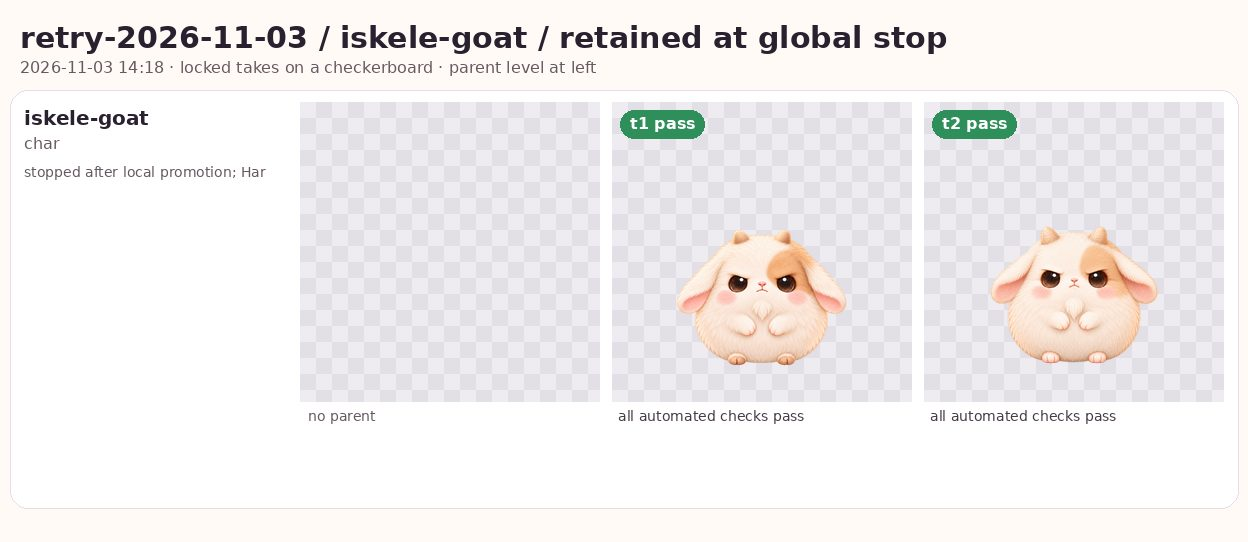
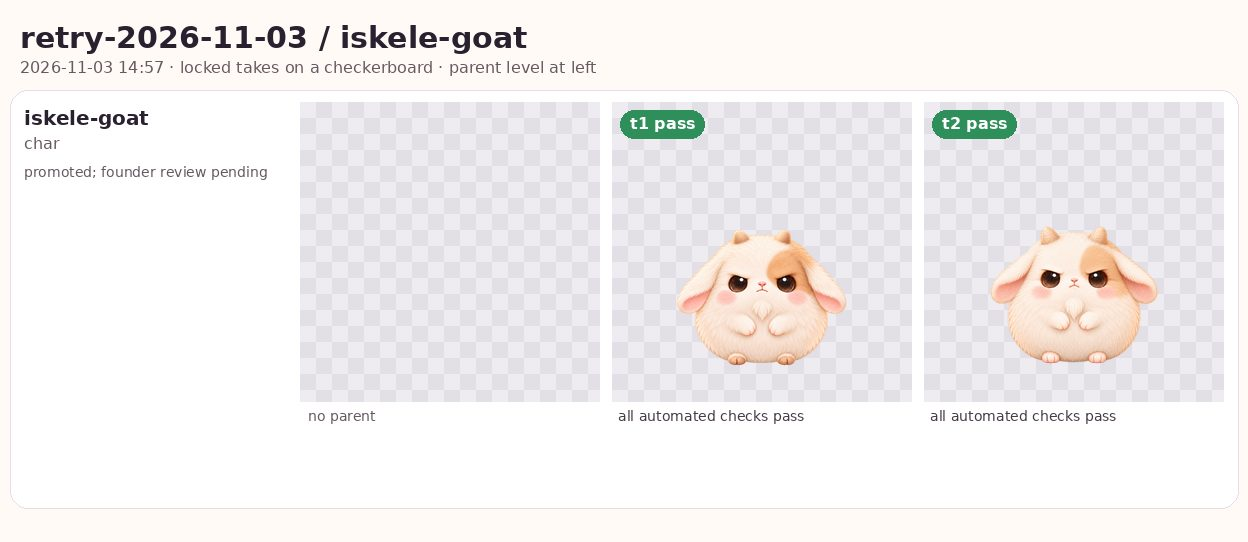
design(art): publish iskele-goat
Generated-With: OpenAI Codex

Changed region(s): [[0.4375, 0.0295, 0.7812, 0.1181], [0.0, 0.2952, 0.2188, 0.3247]]

diff --git a/design/art/masters/iskele-goat/provenance.md b/design/art/masters/iskele-goat/provenance.md
@@ -1,0 +1,69 @@
+# char__iskele-goat
+
+- **Approved:** 2026-11-03T14:57:40+00:00 from batch `retry-2026-11-03`, job `iskele-goat`, take t1
+  of 2 considered.
+- **Generating account:** Founder's uncle's ChatGPT plan, used by the founder with permission
+  (chatgpt-plan).
+- **Tool:** codex-cloud;
+  generated 2026-11-03T13:49:40+00:00.
+- **Post-processing (human-authored, documented per art bible section 13):**
+  canvas fit, style lock preset `char-guard` (style_lock.json v2).
+- **Files:** `raw.webp` is the take as generated (webp q95), kept so the look can be re-locked; `iskele-goat.png` is the locked master the app and later edits use.
+- **Review note:** auto-picked by QA; founder review pending. Retained pair re-posted under main9ede62e; no new image generation. Both takes depict a cream plush baby goat with a warm tan eye patch, tiny rounded horn buds, floppy ears, beard tuft and indignant expression. No head curl, sharp horns or rectangular pupils. Both pass every current automated check. The existing saved t1 remains the QA pick by Harmony97.6 versus95.6; characters have no lock-load check. The previous partial master remains untouched in its old worktree; this master is rebuilt from the retained original and current pipeline.
+
+## References
+
+- `design/art/masters/pofu-hamster-base-v1/pofu-hamster-base.png`: The hamster, Pofu: match his art style, lighting, level of fluff and scale exactly (do not draw him).
+- `design/art/masters/mochi-v2/mochi-v2.png`: Mochi, a neighbor: match her size on the canvas, her eyes and her finish (do not draw her).
+- `design/reference/palette-card-character.png`: The character palette card.
+
+## Prompt (fingerprint ff2a45afcaf6ec93)
+
+```text
+REFERENCES (attached, in this order):
+1. The hamster, Pofu: match his art style, lighting, level of fluff and scale exactly (do not draw him).
+2. Mochi, a neighbor: match her size on the canvas, her eyes and her finish (do not draw her).
+3. The character palette card.
+
+Draw a baby goat in exactly the same art style, lighting and level
+of fluff as the attached hamster and bunny. Same canvas rules:
+full body, sitting upright, front view, centered, feet on an
+invisible line at 88% of the height, about 62% of the canvas width.
+CHARACTER: a baby goat whose body is a soft round ball of cream
+plush fur, a warm tan patch over one eye, two tiny rounded horn
+buds, two soft floppy ears, a small beard tuft, big round glossy
+dark espresso eyes with a catchlight each, and a very indignant
+expression: the brows low, the small mouth pressed in a flat, soft
+line, the chin lifted. Two small cream front paws at the chest.
+No curl on top of the head.
+
+STYLE: soft painterly 2D digital illustration with the polish of a premium
+storybook and a top-tier mobile app mascot. Gentle airbrushed shading, no
+outlines, no hard edges. Fine, soft fur strands along the silhouette and a
+velvety fur texture inside it. Warm diffused key light from the upper left,
+a faint warm rim light along the right edge, soft ambient shadow only where
+forms touch. Pastel warm palette of cream, golden peach and blush pink with
+dark espresso-brown eyes. Clean, calm, uncluttered. No text, no letters,
+no numbers, no logos, no watermark, no border, no frame, no sticker outline.
+
+AVOID: outlines, cel shading, 3D plastic or vinyl render, anime sparkle
+eyes with many highlights, extra limbs, extra toes or fingers, claws,
+teeth, eyebrows, a long tail, lilac or gray fur, a ground shadow, a floor,
+a cast shadow, a white sticker border, text, watermarks, signatures,
+motion blur, film grain, paper texture, vignette.
+
+AVOID: realistic goat anatomy, sharp horns, rectangular pupils, a hat, text, a ground shadow.
+
+Output: one image, transparent background PNG, portrait 1024 x 1536.
+```
+
+## QA at approval
+
+- pass: transparency (source has an alpha channel)
+- pass: canvas (1024x1536)
+- pass: chroma_ceiling (chroma p95 41 (R1 51))
+- pass: value_floor (lightness p5 65 (R1 59))
+- pass: detail_budget (detail at display size 3.3 (R1 5.3))
+- pass: palette_drift (mean dE 0.9, p95 2.9, off-palette 0.6% (top: #662211 (0.1%), #441100 (0.0%)))
+- pass: ground_line (feet at 89.3% of the height (contract 88%))
+- pass: harmony (harmony score 98 against the char reference (outliers: none))
